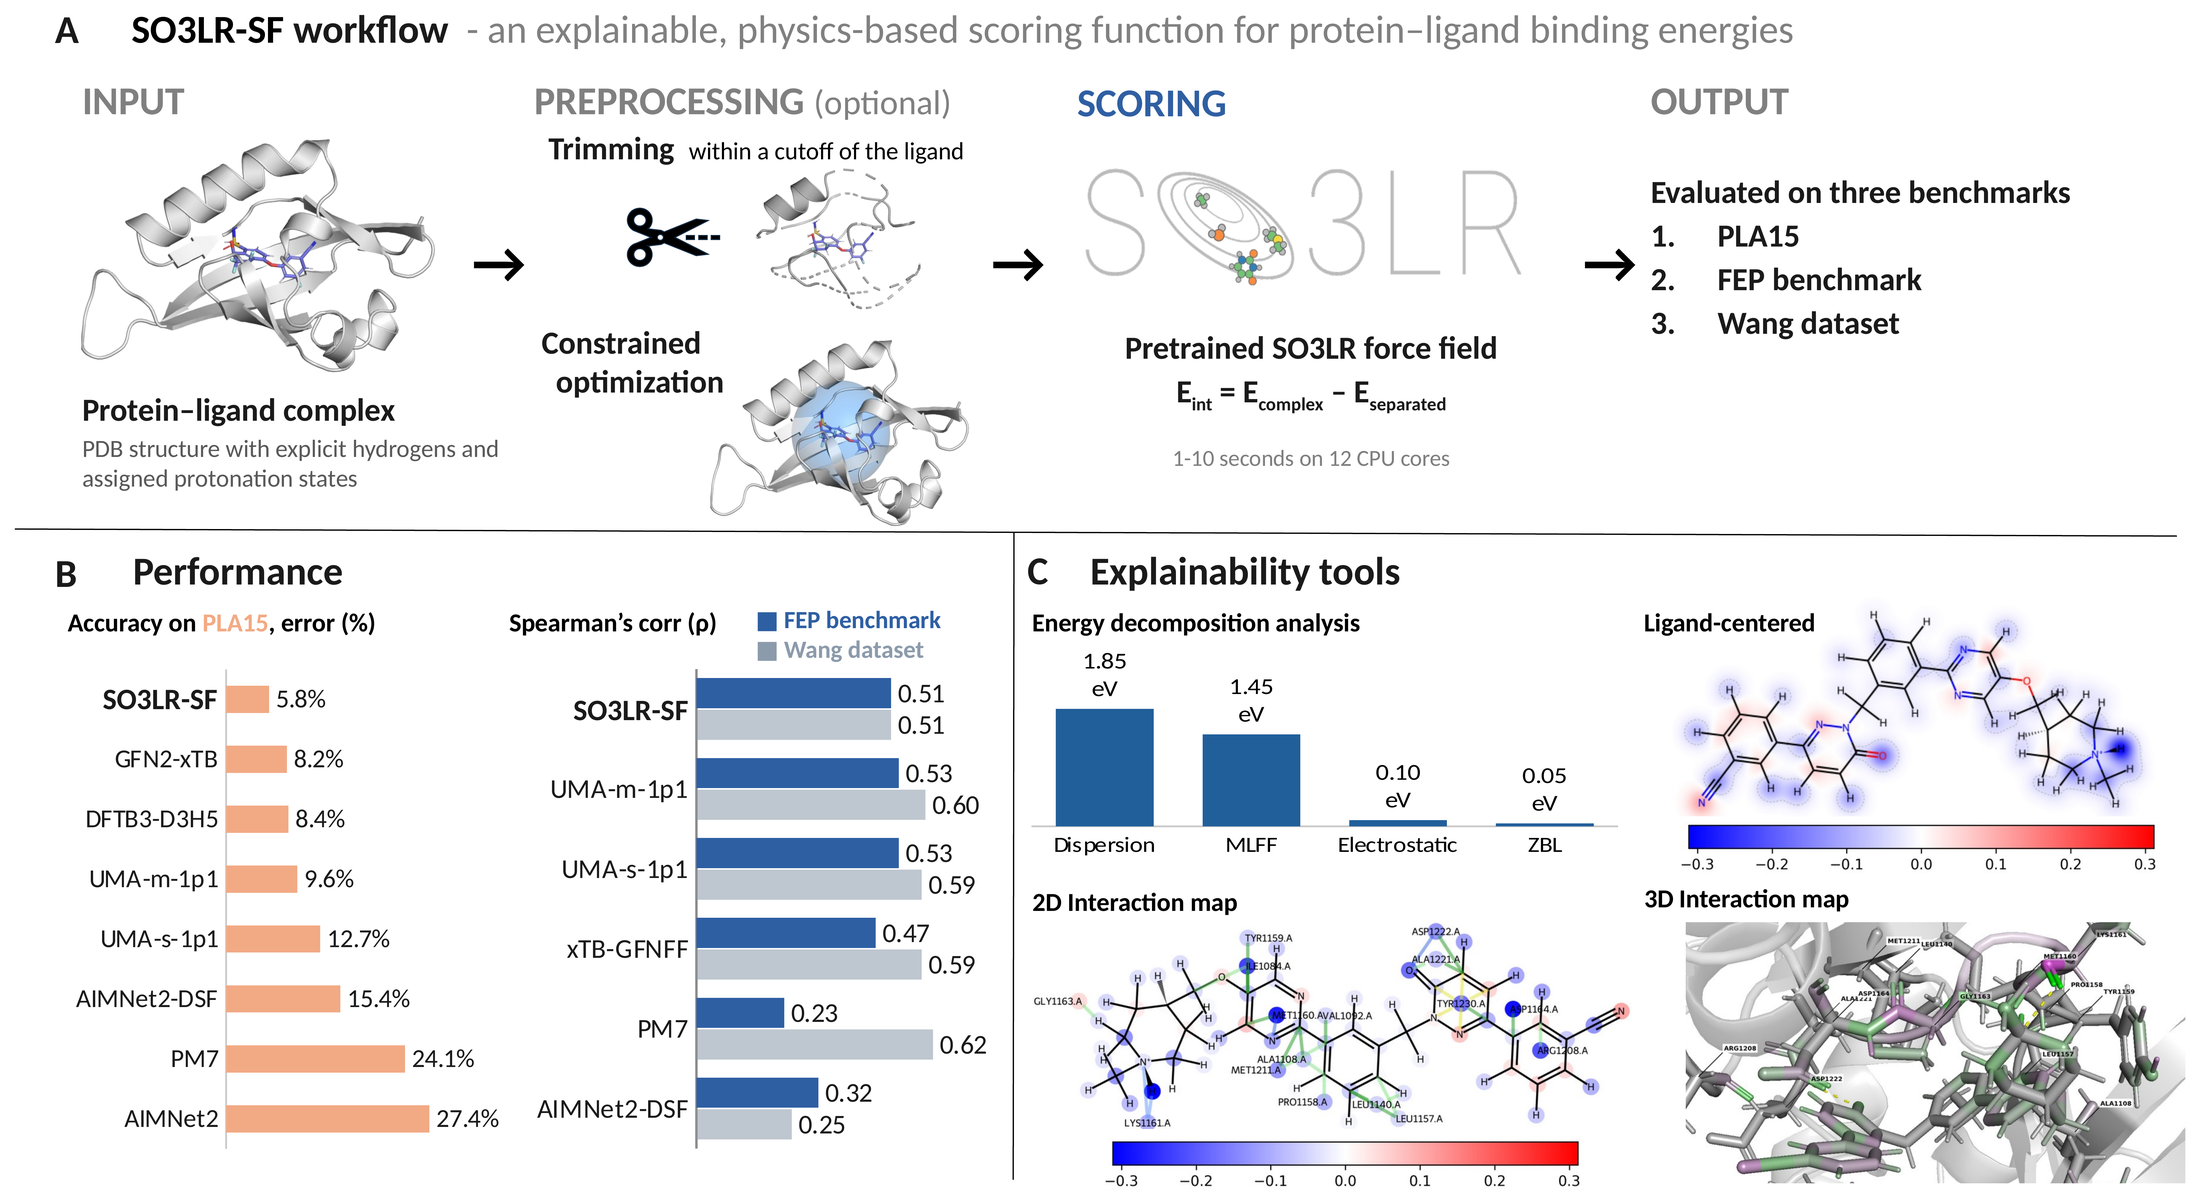
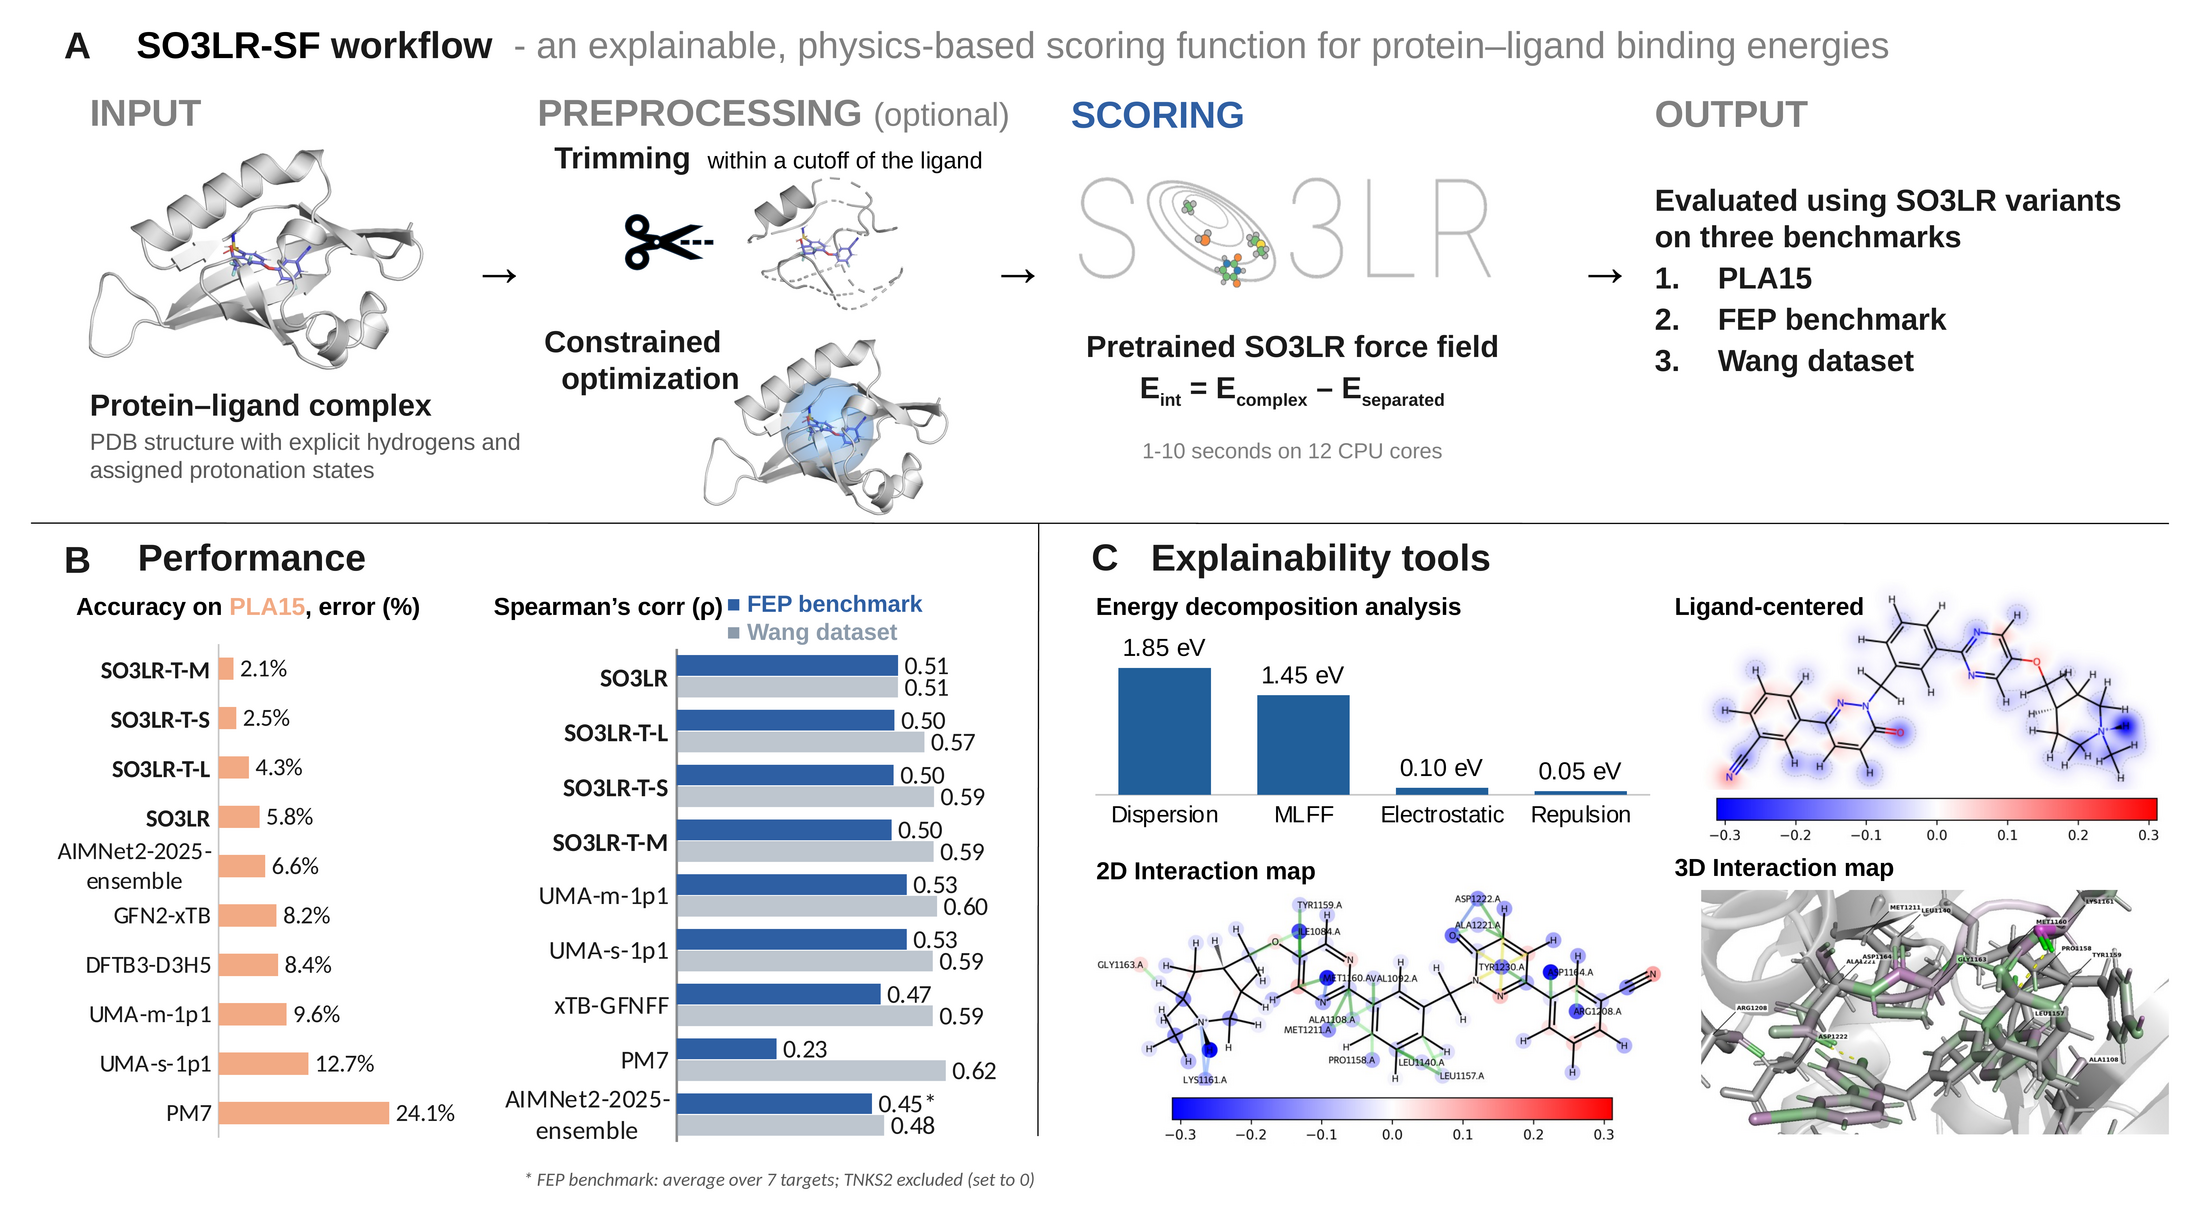
Update SO3LR-SF project & chemRxiv version (#281)
* update so3lr-sf project & chemRxiv version

* shorten project intro

diff --git a/content/projects/so3lr-sf.md b/content/projects/so3lr-sf.md
@@ -22,14 +22,14 @@ collaborators:
   more: University of Luxembourg
 ---
 
-Accurate estimation of protein–ligand binding affinities is central to structure-based drug design. Classical force fields neglect important quantum-mechanical effects, while quantum-mechanical methods remain impractical for large biomolecular systems. To bridge this gap, we introduce SO3LR-SF, a fast and explainable physics-based scoring function built on the pretrained SO3LR machine-learned force field (MLFF).
+Accurate estimation of protein–ligand binding affinities is central to structure-based drug design. Classical force fields neglect important quantum-mechanical effects, while quantum-mechanical methods remain impractical for large biomolecular systems. To bridge this gap, we introduce SO3LR-SF, a fast and explainable physics-based scoring function built on the pretrained SO3LR machine-learned force field (MLFF) and its SO3LR-Tauri variants (SO3LR-T-S, SO3LR-T-M, SO3LR-T-L).
 
 <!--more-->
 <figure style="width: 92%; max-width: 1100px; margin: 2.5em auto;">
   <img src="/images/research/so3lr-sf.png" alt="Overview of the SO3LR-SF workflow, performance and explainability tools" style="width: 100%; border-radius: 0.375em;">
-  <figcaption style="margin-top: 0.75em; text-align: center;">Figure 1: Overview of the SO3LR-SF workflow, performance and explainability tools</figcaption>
+  <figcaption style="margin-top: 0.75em; text-align: center;">Figure 1: Overview of the SO3LR-SF workflow (including optional trimming and constrained optimization), performance of SO3LR variants, and explainability tools</figcaption>
 </figure>
 
-SO3LR-SF combines an equivariant message-passing network for semi-local interactions with physically motivated terms for short-range repulsion, electrostatics, and long-range dispersion. On PLA15 (15 active-site models), it attains a relative interaction error of 5.8% against DLPNO-CCSD(T) references, the lowest of all tested methods. On the FEP benchmark (8 targets, 264 ligands), it reaches an average Spearman correlation of 0.51, on par with the best semi-empirical method tested (GFN-FF, 0.47) and MMGBSA (0.44), and surpassing Glide (0.27). On the Wang dataset (8 targets, 199 ligands), it reaches 0.51, approaching the 0.60 average of molecular dynamics-based free-energy methods at a fraction of their cost. Each complex is scored in 1–10 seconds on 12 CPU cores, and an 8 Å trimming protocol further reduces runtime without loss of accuracy.
+SO3LR-SF combines an equivariant message-passing network for semi-local interactions with physically motivated terms for short-range repulsion, electrostatics, and long-range dispersion. On PLA15 (15 active-site models), it attains relative interaction errors of 2.1–5.8% against DLPNO-CCSD(T) references depending on the SO3LR model, with SO3LR-T-M (2.1%) the lowest of all tested methods. On the FEP benchmark (8 targets, 264 ligands), all SO3LR-SF variants reach an average Spearman correlation of about 0.50, on par with the best semi-empirical method tested (GFN-FF, 0.47) and MMGBSA (0.44), and surpassing Glide (0.27). On the Wang dataset (8 targets, 199 ligands), it reaches about 0.59, on par with molecular dynamics-based free-energy methods (0.59–0.62) at a fraction of their cost. Each complex is scored in 3–47 seconds on 12 CPU cores, and an 8 Å trimming protocol further reduces runtime without loss of accuracy.
 
-A multi-level explainability framework adds energy decomposition, per-atom energy contributions reported for the ligand or as 2D protein–ligand interaction maps, and 3D binding site visualization. In addition, pocket descriptors such as the polar solvent accessible surface area (SASA) ratio (r = 0.81 with performance) flag applicability before scoring.
+A multi-level explainability framework adds energy decomposition, per-atom energy contributions reported for the ligand or as 2D protein–ligand interaction maps, and 3D binding site visualization. In addition, pocket descriptors such as the polar solvent accessible surface area (SASA) ratio (r = 0.74–0.81 across models) predict electrostatic scoring performance, allowing ranking accuracy to be estimated before scoring.
